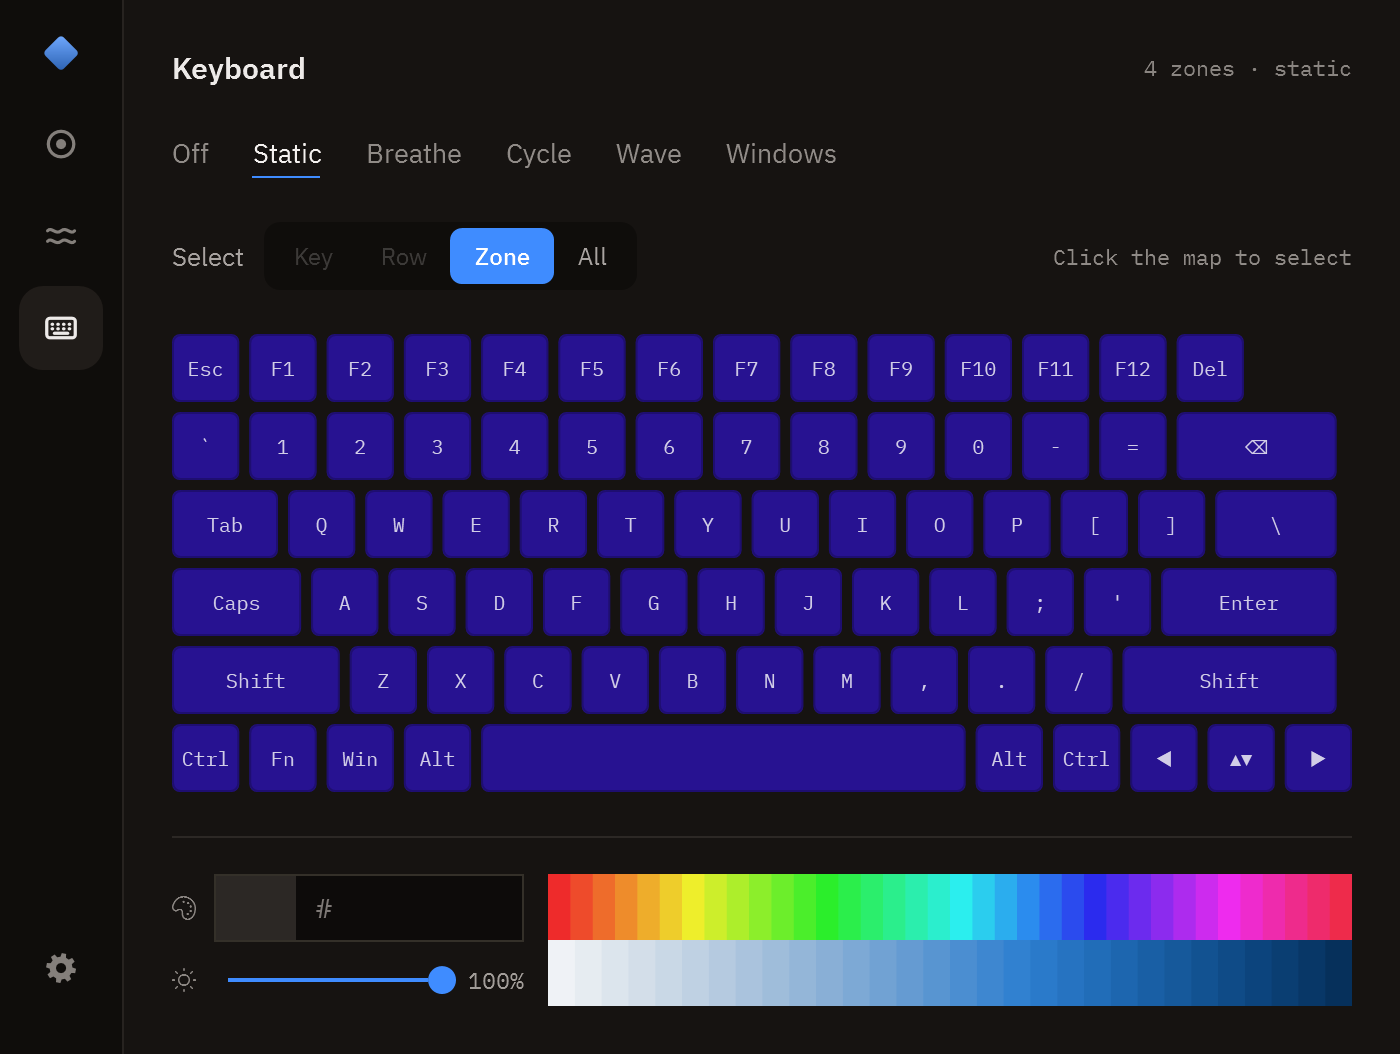
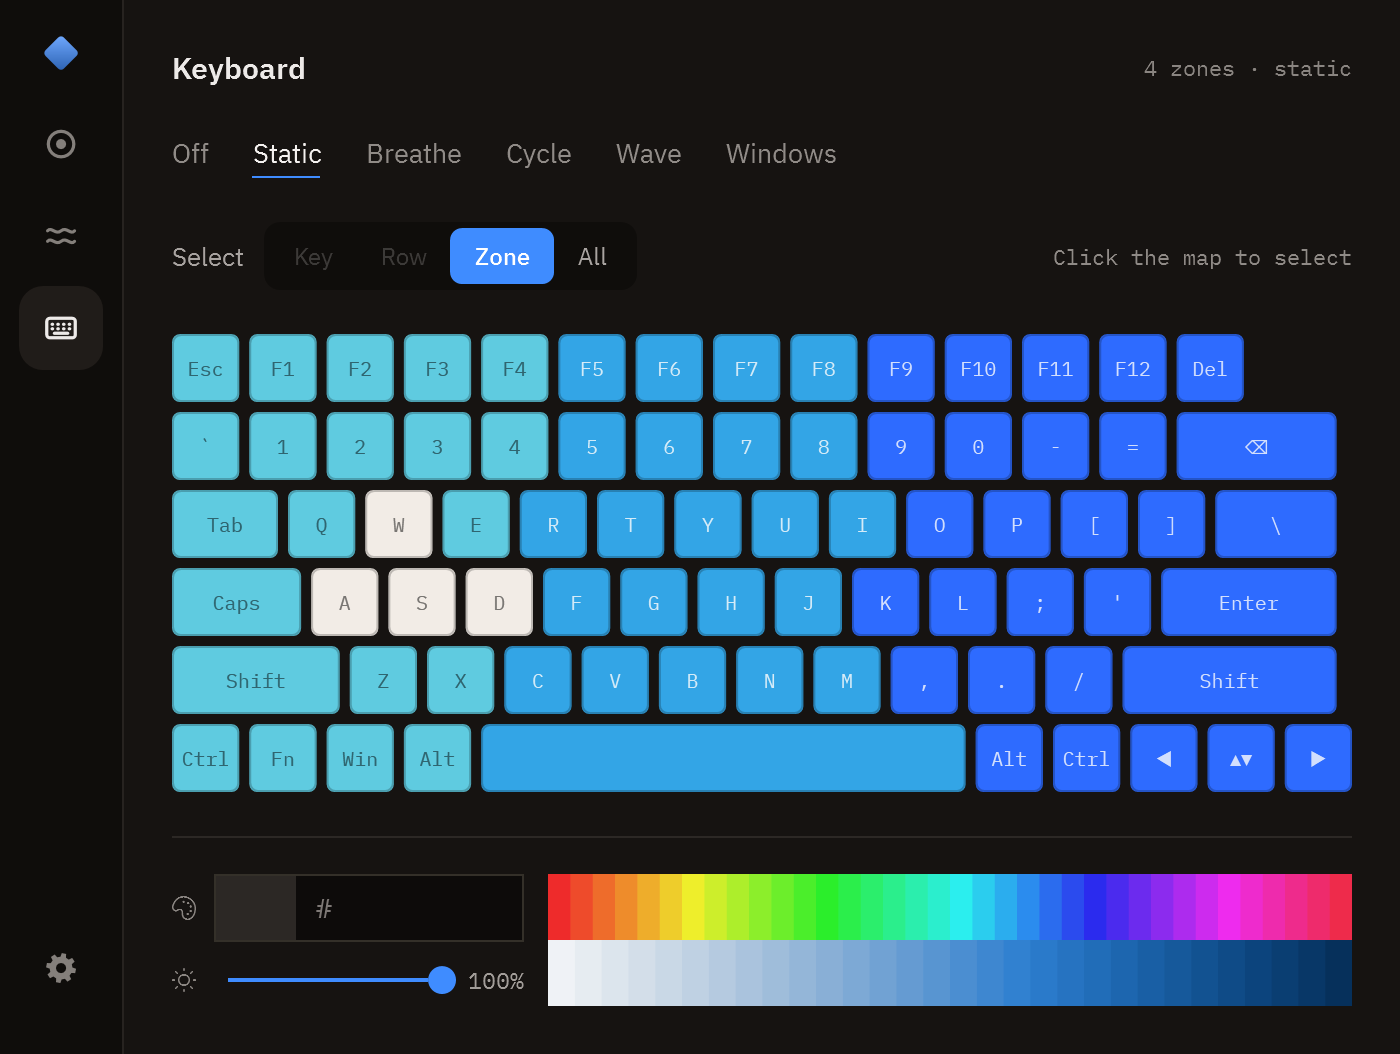
Never poll slower than the fan curve reads, and show the blue ramp everywhere
The backing-off I added yesterday went too far. The software fan curve steps every 5 s from whatever the sensor
loop last handed it, so a 15 or 30 s poll would leave the fans answering a poll interval late. Whoever is
reading the numbers now sets the floor: 5 s whenever the curve is driving the fans, and the long intervals only
when nothing but the tray number is waiting on them. The fan mode decides that, so Refresh re-evaluates it.

The demo keyboard kept OGH's factory blue/purple/red/orange, which is not the palette the app is designed in.
It is now the blue ramp: light on the left through to deep on the right, WASD picked out in near-white.
Screenshots re-rendered.

Changed region(s): [[0.1229, 0.3036, 0.9829, 0.759]]

diff --git a/src/Ui.cs b/src/Ui.cs
@@ -1219,6 +1219,7 @@ namespace Ohman {
         }
 
         public void Refresh() {
+            PollRate();                       // the fan mode decides how fast the sensors have to run; it changes here
             bool wasSyncing = syncing; syncing = true;
             try {
                 var S = E.S; int mi = E.ModeIndex;
@@ -1343,7 +1344,14 @@ namespace Ohman {
         /// fan curve, and on battery even that can wait longer. The per-frame work (the footer, the fan readouts)
         /// has no reader at all when the window is hidden, so its timer stops outright.</summary>
         void PollRate() {
-            int ms = IsVisible ? 2000 : E.S.TrayTemp ? (onBattery ? 10000 : 5000) : (onBattery ? 30000 : 15000);
+            // Whoever is reading these numbers sets the floor. The software fan curve steps every 5 s and steps from
+            // the last reading it was given, so polling slower than that would make the fans answer a poll interval
+            // late — not a saving worth having. With nothing but the tray number waiting on them, they can wait.
+            bool curveDrivesFans = !E.ReadOnly && (E.S.Fan == FanMode.Auto || E.S.Fan == FanMode.Custom);
+            int ms = IsVisible ? 2000
+                   : curveDrivesFans ? 5000
+                   : E.S.TrayTemp ? (onBattery ? 10000 : 5000)
+                   : (onBattery ? 30000 : 15000);
             sensors.SetInterval(ms);
             if (uiTimer == null) return;
             if (IsVisible) { if (!uiTimer.IsEnabled) uiTimer.Start(); } else uiTimer.Stop();

diff --git a/src/Lighting.cs b/src/Lighting.cs
@@ -138,7 +138,9 @@ namespace Ohman {
 
     /// <summary>Simulated keyboard for the preview build.</summary>
     public sealed class DemoLighting : ILighting {
-        Rgb[] colors = { new Rgb(0x0F, 0x84, 0xFA), new Rgb(0x71, 0x0F, 0xFA), new Rgb(0xF9, 0x35, 0x0F), new Rgb(0xFA, 0xAC, 0x0F) };   // OGH's factory default
+        // Zone ids are HP's (0 right, 1 middle, 2 left, 3 WASD), so written in that order this is a blue ramp
+        // running light on the left to deep on the right, with the WASD cluster picked out in near-white.
+        Rgb[] colors = { new Rgb(0x2E, 0x6B, 0xFF), new Rgb(0x33, 0xA5, 0xE6), new Rgb(0x5F, 0xCB, 0xE0), new Rgb(0xF2, 0xEC, 0xE6) };
         int light = 0xE4;
         public LightKind Kind { get { return LightKind.Zones; } }
         public bool Inert { get { return false; } }
